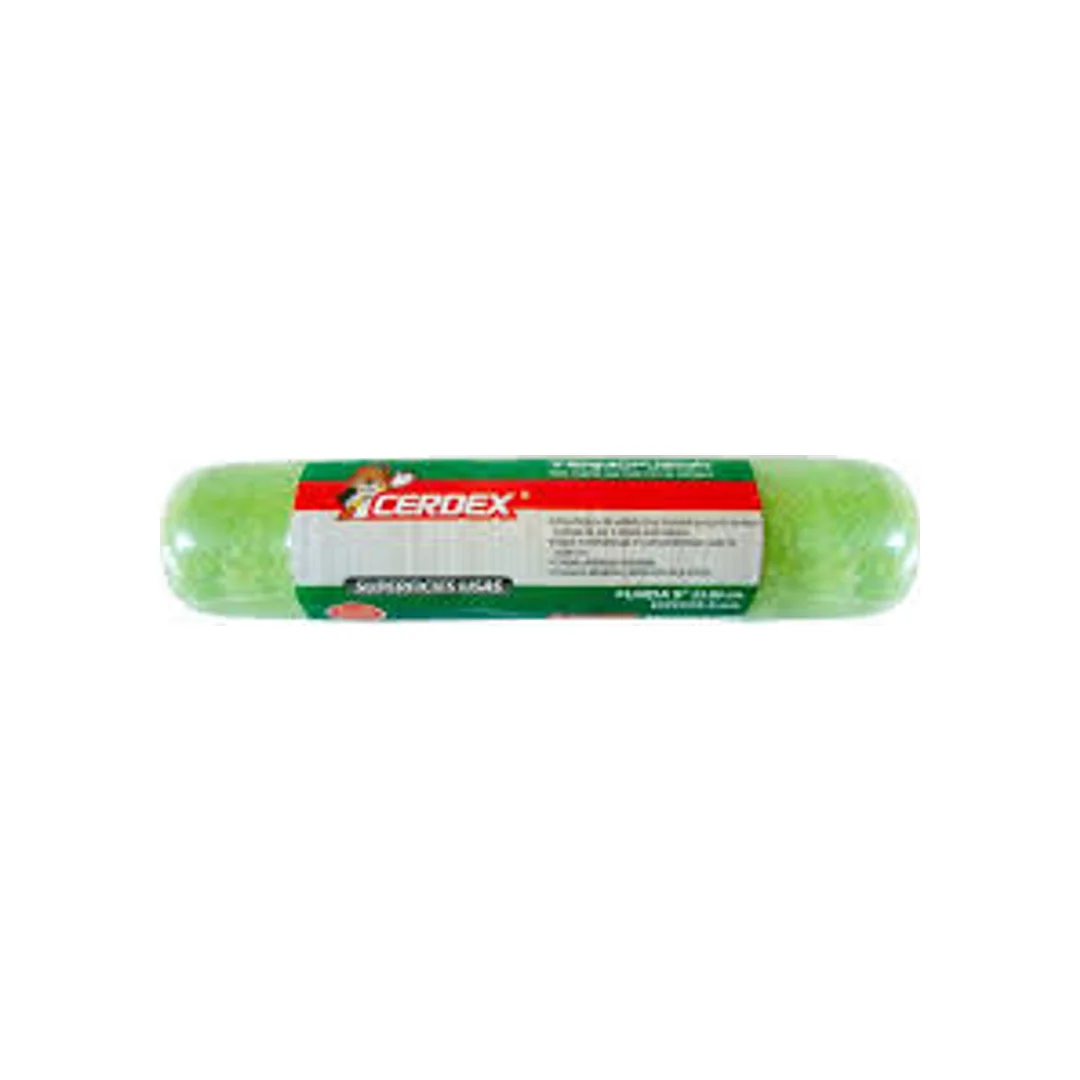
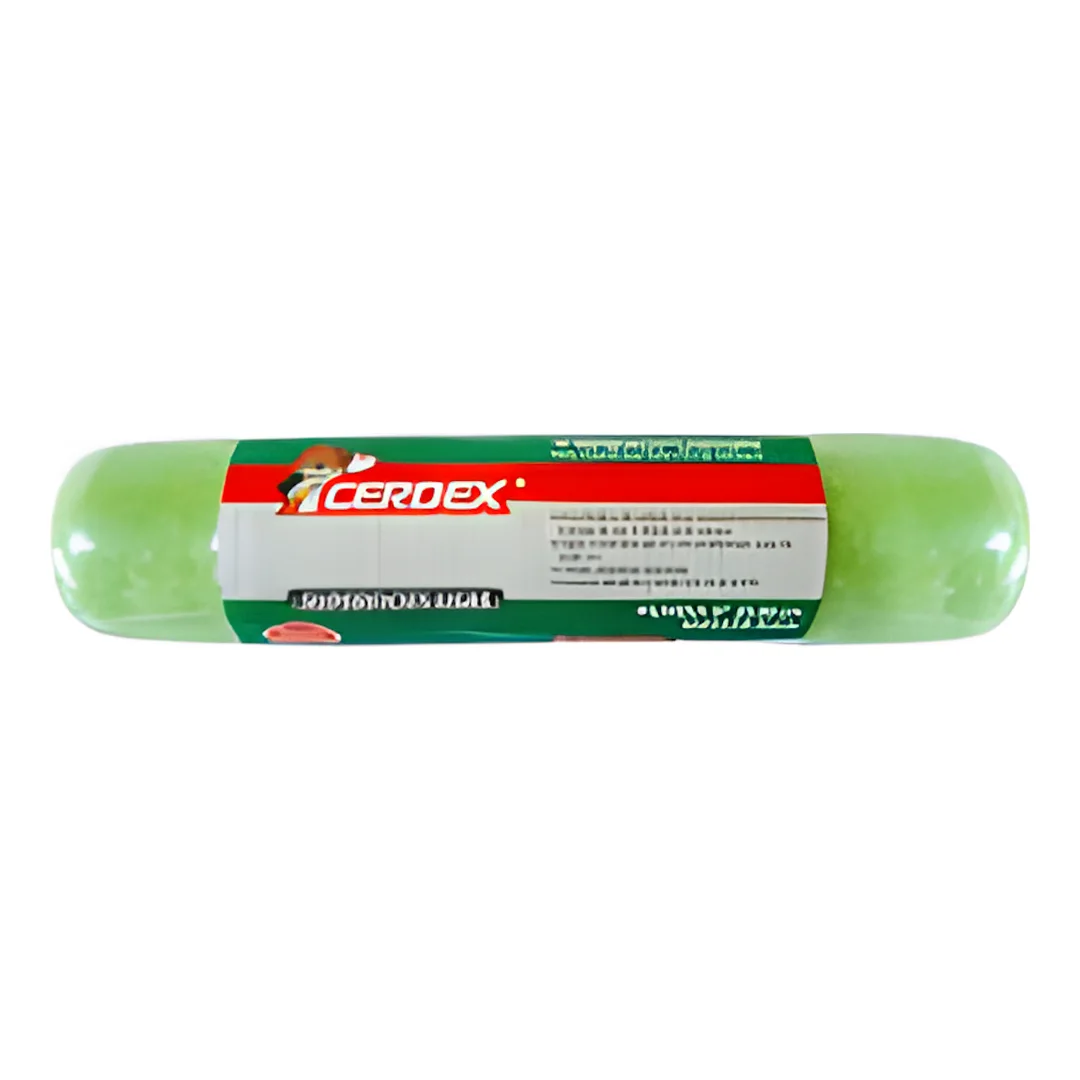
Fotos Coinpica (caucho tipo C galon y tobo) y funda verde Cerdex mas nitida

Changed region(s): [[0.0306, 0.3972, 0.9778, 0.6111]]

diff --git a/lib/agrupaciones.ts b/lib/agrupaciones.ts
@@ -54,6 +54,7 @@ export function fotoPorNombre(nombre: string, marca: string | null): string | un
   if (/^IPA$/i.test(marca ?? "")) return fotoIpa(n);
   if (/MENEQUIM/i.test(marca ?? "") || /MENEQUIM/.test(n)) return fotoMenequim(n);
   if (/CERDEX/i.test(marca ?? "") || /CERDEX/.test(n)) return fotoCerdex(n);
+  if (/COINPICA/i.test(marca ?? "") || /COINPICA/.test(n)) return fotoCoinpica(n);
   if (!/MONTANA/i.test(marca ?? "") && !/MONTANA/.test(n)) return undefined;
   const linea = lineaMontana(n);
   if (!linea) return undefined;
@@ -278,6 +279,13 @@ const BROCHA_RUBI: Record<string, string> = {
   "1": "brocha-rubi-1",
   "1/2": "brocha-rubi-1",
 };
+/** Coinpica: el caucho (tipo C, blanco o colores) en galón y tobo/paila, con la misma lata a dos escalas como Manpica. */
+const CP = "/productos/coinpica/";
+const COINPICA_LINEAS: LineaFoto[] = [{ regla: /CAUCHO|TIPO ?C\b/, linea: "caucho-tipo-c", tamanos: ["gal", "tobo"] }];
+function fotoCoinpica(n: string): string | undefined {
+  return fotoDeTabla(n, CP, COINPICA_LINEAS, tamanoEnvase(n));
+}
+
 /** Accesorios de rodillo Cerdex: una foto por tipo, sin importar la medida. Cepillos y mango metálico, sin foto. */
 const CERDEX_ACCESORIOS: [RegExp, string][] = [
   [/EXTENSION P\/RODILLO/, "extension-rodillo"],

diff --git a/lib/__tests__/agrupaciones.test.ts b/lib/__tests__/agrupaciones.test.ts
@@ -360,6 +360,15 @@ describe("agrupar", () => {
     for (const [nombre, foto] of casos) expect(f(nombre), nombre).toBe(foto);
   });
 
+  it("Coinpica: el caucho tipo C en galón y tobo", () => {
+    const f = (nombre: string) => fotoPorNombre(nombre, "COINPICA")?.replace("/productos/coinpica/", "");
+    expect(f("COINPICA TIPO C BLANCO GALON")).toBe("caucho-tipo-c-gal.webp");
+    expect(f("COINPICA TIPO C COLORES GALON")).toBe("caucho-tipo-c-gal.webp");
+    expect(f("COINPICA TIPO C BLANCO TOBO (4 GAL)")).toBe("caucho-tipo-c-tobo.webp");
+    expect(f("COINPICA TIPO C COLORES TOBO (4 GAL)")).toBe("caucho-tipo-c-tobo.webp");
+    expect(f("COINPICA TIPO C BLANCO 1/4")).toBeUndefined();
+  });
+
   it("Adesi-Top: cada producto con su envase y tamaño (nombres reales de Saint); sin foto, nada", () => {
     const f = (nombre: string) => fotoPorNombre(nombre, "ADESI-TOP")?.replace("/productos/adesitop/", "");
     const casos: [string, string | undefined][] = [

diff --git a/CLAUDE.md b/CLAUDE.md
@@ -162,6 +162,7 @@ Resumen para persona B y cualquier sesión nueva. Detalle: `lib/auth.ts`, `lib/c
 
 ## Registro de cambios
 Lo más reciente arriba. Formato: fecha · rama · quién · qué cambió y qué debe saber el compañero.
+- 2026-11-04 · `main` · persona B · **Fotos Coinpica** (`fotoCoinpica` en `lib/agrupaciones.ts`, con prueba): la lata de caucho interior-exterior para los Tipo C blanco y colores, galón (760 px) y tobo de 4 gal (1000 px), en `public/productos/coinpica/`. También se cambió la foto de las fundas thermofusión Cerdex por una más nítida.
 - 2026-11-04 · `main` · persona B · **Fotos brochas Cerdex Rubí**: `fotoCerdex` (`BROCHA_RUBI` en `lib/agrupaciones.ts`, con pruebas), fotos en `public/productos/cerdex/`. Una por medida (6", 5", 4", 3", 2", 1-1/2", 1"), todas a 920 px de alto en lienzo 1080, así el ancho real se nota. 2-1/2" usa la de 2" y 1/2" la de 1". La 6" venía con fondo gris (se blanqueó) y la 3" con marca de agua (se recortó). Después, `CERDEX_ACCESORIOS` (una foto por tipo): extensiones p/rodillo (las 3), set-kit rodillo/bandeja (los 2), funda p/texturizar y fundas thermofusión (foto "superficies lisas", original de 225 px: algo borrosa). Cepillos de alambre y mango metálico, sin foto.
 - 2026-11-04 · `main` · persona B · **Navegación más rápida (sensación de 1 s al tocar)**: el servidor ya respondía en 0,3–0,6 s; lo lento era lo de encima. (1) `components/layout/BarraNavegacion.tsx` en `app/layout.tsx`: barra roja fina arriba que sale EN el toque de cualquier enlace interno y se va al llegar la página (para `router.push`, llamar antes `avisarNavegacion()`, como en `SelectorOrden`). (2) `app/loading.tsx`: esqueleto para las páginas sin uno propio (sobre todo el inicio, que es `force-dynamic`). (3) Animaciones de entrada más cortas: `--animate-aparecer` 0,6 → 0,3 s, fundido de `app/template.tsx` (`.transicion-pagina`) 0,35 → 0,15 s y todos los `animation-delay` escalonados a la mitad (crear cuenta llegaba a 0,84 s). **Una animación de entrada nueva: que no pase de ~0,3 s.**
 - 2026-11-04 · `main` · persona B · **Fotos barnices Menequim**: `fotoMenequim` (tabla `MENEQUIM_LINEAS` en `lib/agrupaciones.ts`, con pruebas), fotos en `public/productos/menequim/`. Por LÍNEA, no por color: Natural mate, Natural (brillante), Marino, y Secamiento rápido para él y todos los tonos (caoba, nogal). 1/4 a 600 px y galón a 760 px de alto en lienzo 1080, como Manpica. Selladores, thinner, pega, etc., sin foto.
